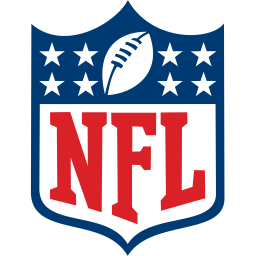
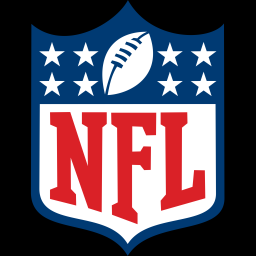
Minor changes

diff --git a/python-poll-pusher/templates/index.html b/python-poll-pusher/templates/index.html
@@ -10,19 +10,19 @@
         cursor: pointer
     }
     .percentageBarParent{
-        height: 22px;
+        height: 2px;
         width: 100%;
         border: 1px solid black;
     }
     .percentageBar {
-        height: 20px;
+        height: 2px;
         width: 0%;
     }
     .bottom-right {
         position: absolute;
-        top: 42%;
+        top: 41%;
         right: 0;
-        transform: translate(0, -58%);
+        transform: translate(0, -59%);
     }
     .half-size {
         width: 20%;
@@ -47,6 +47,12 @@
     .header img {
         width: 100%;
     }
+
+    .col-md-4{
+        border: 2px solid white;
+        border-radius: 10px;
+        padding: 10px;
+    }
     </style>
 </head>
 <body>
@@ -58,7 +64,7 @@
         <h1>Who has the most passing yards in a career?</h1>
         <div class="col-md-12">
         <div class="row">
-            <div class="col-md-6">
+            <div class="col-md-4">
             <div class="poll-member Brady">
                 <h1>Tom Brady&nbsp;&nbsp;</h1>
                 <div class="percentageBarParent">
@@ -66,7 +72,7 @@
             </div>
             </div>
             </div>
-            <div class="col-md-6">
+            <div class="col-md-4">
             <div class="poll-member Brees">
                 <h1>Drew Brees&nbsp;&nbsp;</h1> 
                 <div class="percentageBarParent">
@@ -76,7 +82,7 @@
             </div>
         </div>
         <div class="row">
-            <div class="col-md-6">
+            <div class="col-md-4">
             <div class="poll-member Manning">
                 <h1>Peyton Manning&nbsp;&nbsp;</h1> 
                 <div class="percentageBarParent">
@@ -84,7 +90,7 @@
                 </div>
             </div>
             </div>
-            <div class="col-md-6">
+            <div class="col-md-4">
             <div class="poll-member Favre">
                 <h1>Brett Favre&nbsp;&nbsp;</h1> 
                 <div class="percentageBarParent">

diff --git a/python-poll-pusher/app.py b/python-poll-pusher/app.py
@@ -23,7 +23,7 @@ conn = create_connection(database)
 c = conn.cursor()
 
 # Image in center of QR Code
-Logo_link = './static/assets/nfl.png'
+Logo_link = './static/assets/nfl256.png'
 logo = Image.open(Logo_link)
 
 # Taking base width
@@ -38,8 +38,8 @@ QRcode = qrcode.QRCode(
 )
 
 # taking url or text
-url = 'https://www.nfl.com/plus/'
- 
+# url = 'https://www.nfl.com/plus/'
+url = 'https://www.figma.com/proto/ltx1jEM82pTnmPqdRwUPKc/BOTB_2023'
 # adding URL or text to QRcode
 QRcode.add_data(url)
  
